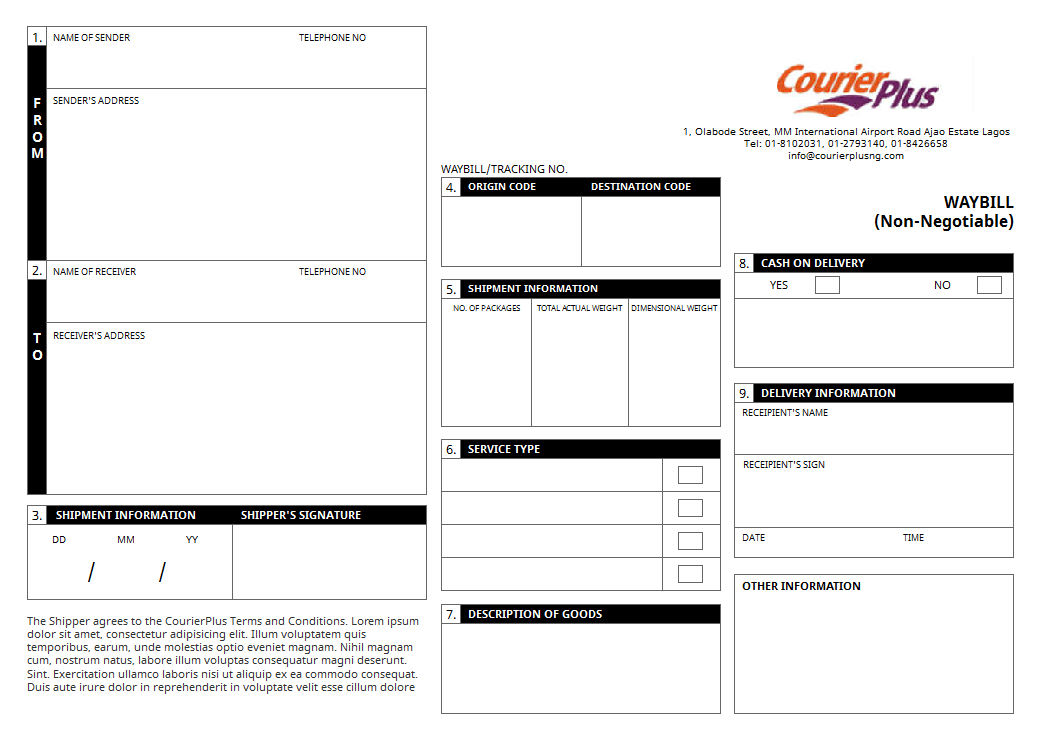
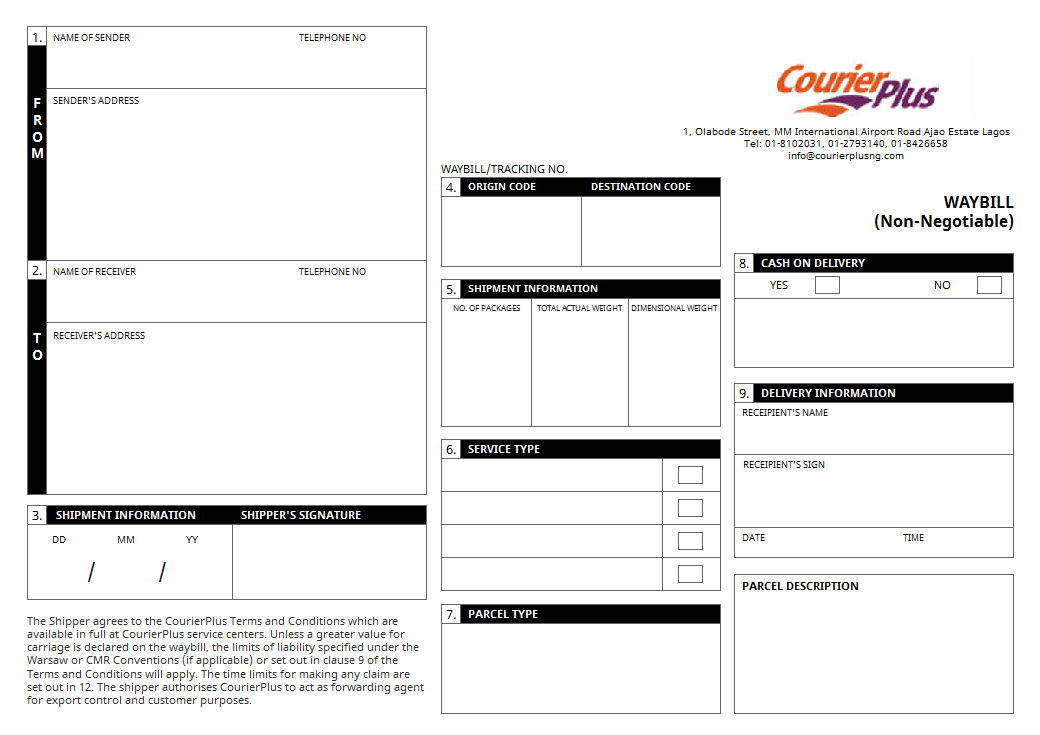
Changes to print waybill * shorted acknowledgement copy, express centere's copy to ack. copy and ec copy respecively * Shorted courierplus address on the right * Moved waybill/tracking no label upwards and the waybill no underneath

Changed region(s): [[0.0308, 0.8381, 0.4, 0.9578], [0.7077, 0.7782, 0.8308, 0.8082], [0.4615, 0.8082, 0.5846, 0.8381]]

diff --git a/web/less/theme/print-waybill.less b/web/less/theme/print-waybill.less
@@ -140,7 +140,7 @@ body {
 	display: block;
 }
 .copy {
-	.absolute-wrap(@waybill-padding-vertical; auto; 335px);
+	.absolute-wrap(@waybill-padding-vertical; auto; 250px);
 	right: 25px;
 	font-size: 22px;
 	font-weight: bold;
@@ -154,7 +154,7 @@ body {
 	}
 }
 .waybill-no {
-	.absolute-wrap(154px; 575px);
+	.absolute-wrap(153px; @code-left);
 	font-size: 24px;
 }
 .user {

diff --git a/web/css/compiled/print-waybill.css b/web/css/compiled/print-waybill.css
@@ -67,7 +67,7 @@ body {
   position: absolute;
   top: 27px;
   left: auto;
-  width: 335px;
+  width: 250px;
   height: auto;
   right: 25px;
   font-size: 22px;
@@ -86,8 +86,8 @@ body {
 }
 .waybill-no {
   position: absolute;
-  top: 154px;
-  left: 575px;
+  top: 153px;
+  left: 441px;
   width: auto;
   height: auto;
   font-size: 24px;

diff --git a/views/site/print_waybill.php b/views/site/print_waybill.php
@@ -2,7 +2,7 @@
 use Adapter\Util\Calypso;
 use yii\helpers\Html;
 
-$copies = ["Sender's Copy","Recipient's Copy","Acknowledgement Copy"," Express Centre's Copy"];
+$copies = ["Sender's Copy","Recipient's Copy","Ack. Copy"," EC Copy"];
 ?>
 <?= Html::cssFile('@web/css/compiled/print-waybill.css') ?>
 
